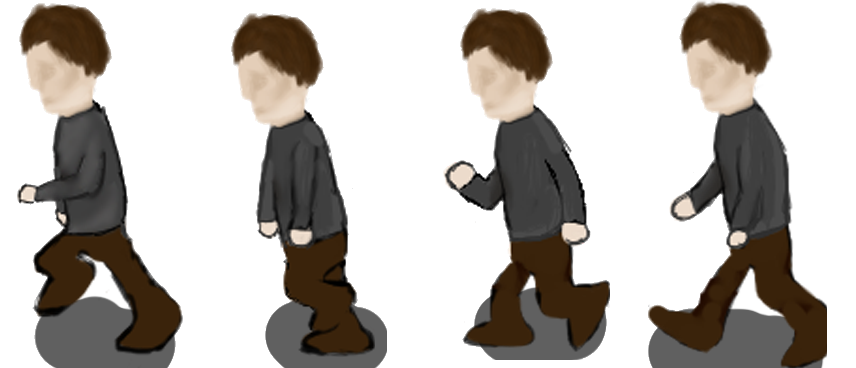
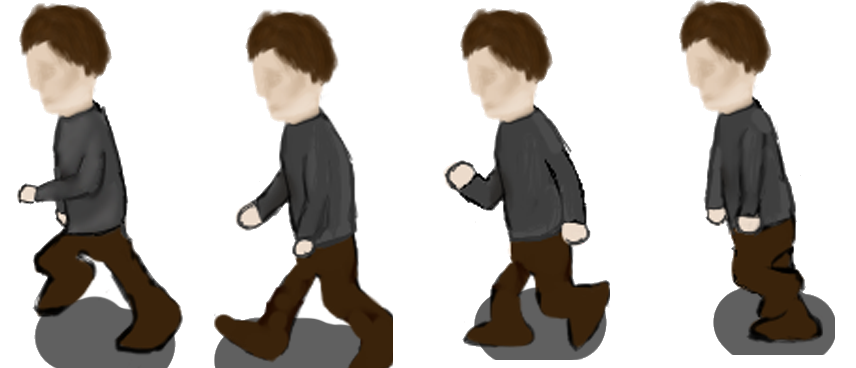
Sprite is now flipped when heading left,Boss and player now move to correct spots when boss fight starts

diff --git a/js/script.js b/js/script.js
@@ -48,12 +48,13 @@ function GamerInput(input) {
 // Default GamerInput is set to None
 var gamerInput = new GamerInput("None"); //No Input
 
-// Default Player
-var sprite = new Image();
-sprite.src = "./img/player.png";
 
 //determines whether or not game can continue
 var gameInProgress = true;
+
+// Loading in sprites used in game
+var sprite = new Image();
+sprite.src = "./img/player.png";
 
 var graveSprite = new Image();
 graveSprite.src = "./img/grave.png";
@@ -67,6 +68,9 @@ bgSprite.src = "./img/bg.png";
 var nameGrave = new Image();
 nameGrave.src = "./img/NamelessGrave.png";
 
+var bossSprite = new Image();
+bossSprite.src = "./img/motor.png";
+
 //used when calculating the time left
 var counter = 0;
 
@@ -74,9 +78,11 @@ var queryString = window.location.search;
 var params = new URLSearchParams(queryString);
 var uname = params.get("username");
 
-var bossFight = true;
+var bossFight = false;
+
 
 var player = new GameObject("Player", sprite, 100,0,0);
+var boss = new GameObject("Boss", bossSprite, 100,-700,180);
 var graveOne = new GameObject("GraveOne", graveSprite , 100,155,250);
 var graveTwo = new GameObject("GraveTwo", graveSprite , 100,355,250);
 var graveThree = new GameObject("GraveThree", graveSprite , 100,555,250);
@@ -131,7 +137,8 @@ var current; // current time
 
 // Process keyboard input event
 function input(event) {
-    // Take Input from the Player
+    if(bossFight == false)
+   {// Take Input from the Player
     if (event.type === "keydown") {
         switch (event.keyCode) {
             case 37:
@@ -165,9 +172,10 @@ function input(event) {
     }
     console.log("Gamer Input :" + gamerInput.action);
 }
+}
 
 function update() {
-    switch (direction)
+   switch (direction)
     {
         case 0:
         player.x = player.x;
@@ -177,6 +185,7 @@ function update() {
             player.x -= 1;
             showAnnouncement = false;
             showHealthAnnounce = false;
+            player.img.src =  "./img/playerBack.png";
         break;
         case 2:
             player.y -= 1;
@@ -187,6 +196,7 @@ function update() {
             player.x += 1;
             showAnnouncement = false;
             showHealthAnnounce = false;
+            player.img.src =  "./img/player.png";
         break;
         case 4:
             player.y += 1;
@@ -194,18 +204,25 @@ function update() {
             showHealthAnnounce = false;
         break;
     }
+    if(bossFight == false)
+    {
     boundaryCheck();
     checkIntersect();
 
     if(counter === 4000)
     {
         console.log("Time is up");
-        gameInProgress = false;
+       // gameInProgress = false;
+       bossFight = true;
     }
     else
     {
         counter++
     }
+}
+else{
+    centreCharacter();
+}
     var e = document.getElementById("item-select");
     var strUser = e.options[e.selectedIndex].text;
     console.log(strUser);
@@ -255,6 +272,10 @@ function animate() {
 
     context.drawImage(userGrave.img, userGrave.x, userGrave.y, 106, 128);
 
+    if(bossFight == true)
+    {
+        context.drawImage(boss.img, boss.x, boss.y, boss.img.width / 1.5, boss.img.height / 1.5);
+    }
 
     context.font = "10px Verdana";
     context.fillStyle = "black";
@@ -394,7 +415,8 @@ function gameloop() {
         window.requestAnimationFrame(gameloop);
     }
     else{
-        gameOver();
+       
+       // gameOver();
     }
 }
 
@@ -411,28 +433,44 @@ document.getElementById("buttonRight").onmouseup = function() {noInput()};
 document.getElementById("buttonDown").onmouseup = function() {noInput()};
 
 function buttonOnClickW(){
-    gamerInput = new GamerInput("Up");
-    direction = 2;
+    if(bossFight == false)
+    {
+        gamerInput = new GamerInput("Up");
+        direction = 2;
+    }
 }
 
 function buttonOnClickA(){
-    gamerInput = new GamerInput("Left");
-    direction = 1;
+    if(bossFight == false)
+    {
+        gamerInput = new GamerInput("Left");
+        direction = 1;
+    }
 }
 
 function buttonOnClickD(){
-    gamerInput = new GamerInput("Right");
-    direction = 3;
+    if(bossFight == false)
+    {
+        gamerInput = new GamerInput("Right");
+        direction = 3;
+    }    
 }
 
+
 function buttonOnClickS(){
-    gamerInput = new GamerInput("Down");
-    direction = 4;
+    if(bossFight == false)
+    {
+        gamerInput = new GamerInput("Down");
+        direction = 4;
+    }
 }
 
 function noInput(){
-    gamerInput = new GamerInput("None");
-    direction = 0;
+    if(bossFight == false)
+    {
+        gamerInput = new GamerInput("None");
+        direction = 0;
+    }
 }
 
 function useButton(){
@@ -500,3 +538,28 @@ function updateScore() {
 
 }
 
+function centreCharacter(){
+
+    if(player.x > 550)
+    {
+        direction = 1;
+    }
+    else if(player.x < 550)
+    {
+        direction = 3;
+    }
+    else if(player.y < (canvas.height - 180))
+    {
+       direction = 4;
+    }
+    else
+    {
+        direction = 0;
+    }
+
+    if(boss.x < -50)
+    {
+        boss.x = boss.x + 1;
+    }
+    
+}

diff --git a/GameLoop.html b/GameLoop.html
@@ -73,17 +73,17 @@
         <div class="divTableBody">
             <div class="divTableRow">
                 <div class="divTableCell">&nbsp;</div>
-                <div class="divTableCell"><button onmousedown="buttonOnClickW()" ontouchstart="buttonOnClickW()" ontouchend="noInput()" id ="buttonUp" class="button yellow round">W</button></div>
+                <div class="divTableCell"><button onmousedown="buttonOnClickW()" ontouchstart="buttonOnClickW()" ontouchend="noInput()" id ="buttonUp" class="button magenta round">W</button></div>
                 <div class="divTableCell">&nbsp;</div>
             </div>
             <div class="divTableRow">
-                <div class="divTableCell"><button onmousedown="buttonOnClickA()" ontouchstart="buttonOnClickA()" ontouchend="noInput()" id ="buttonLeft"class="button blue round">A</class></div>
+                <div class="divTableCell"><button onmousedown="buttonOnClickA()" ontouchstart="buttonOnClickA()" ontouchend="noInput()" id ="buttonLeft"class="button green round">A</class></div>
                 <div class="divTableCell">&nbsp;</div>
-                <div class="divTableCell"><button onmousedown="buttonOnClickD()" ontouchstart="buttonOnClickD()" ontouchend="noInput()" id ="buttonRight" class="button red round">D</class></div>
+                <div class="divTableCell"><button onmousedown="buttonOnClickD()" ontouchstart="buttonOnClickD()" ontouchend="noInput()" id ="buttonRight" class="button darkgreen round">D</class></div>
             </div>
             <div class="divTableRow">
                 <div class="divTableCell">&nbsp;</div>
-                <div class="divTableCell"><button onmousedown="buttonOnClickS()" ontouchstart="buttonOnClickS()" ontouchend="noInput()" id ="buttonDown" class="button green round">S</class></div>
+                <div class="divTableCell"><button onmousedown="buttonOnClickS()" ontouchstart="buttonOnClickS()" ontouchend="noInput()" id ="buttonDown" class="button purple round">S</class></div>
                 <div class="divTableCell">&nbsp;</div>
             </div>
         </div>

diff --git a/css/style.css b/css/style.css
@@ -44,9 +44,9 @@ img{
     background-color: #3F3F3F;
 }
 
-.red {
+.magenta {
     background-color:#00000000;
-    color: #FF0000;
+    color: #9e3f8e;
 }
 
 .green {
@@ -54,14 +54,14 @@ img{
     color: #00FF00;
 }
 
-.blue {
+.darkgreen {
     background-color:#00000000;
-    color: #0000FF;
+    color: #126112;
 }
 
-.yellow {
+.purple {
     background-color:#00000000;
-    color: #FFFF00;
+    color: #68167c;
 }
 
 .round {
@@ -70,7 +70,7 @@ img{
 
 .divTable{
     position: absolute;
-    bottom: 10vh;
+    bottom: 5vh;
     right: 20vw;
     display: table;
     width: 25%;
